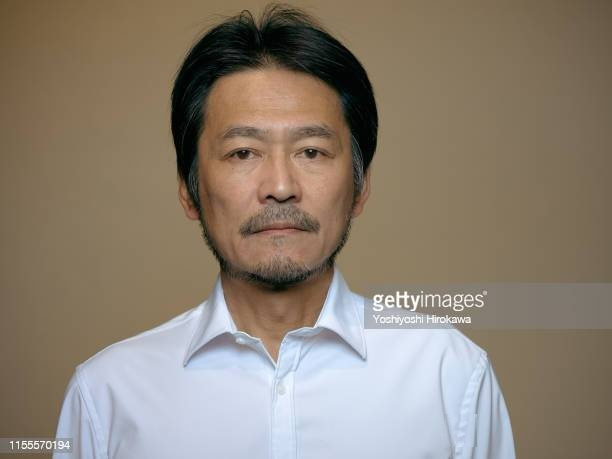
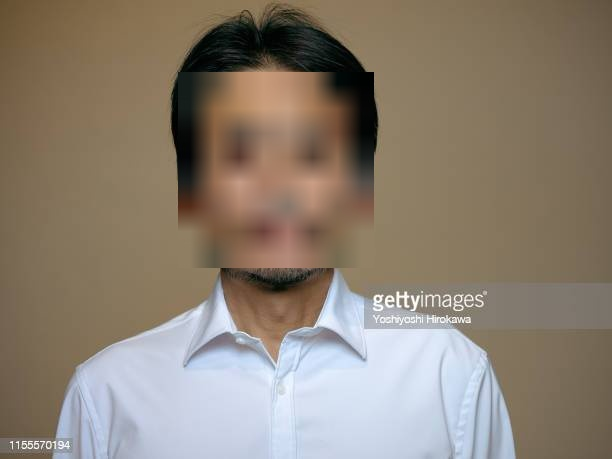
モザイク処理別の方法

Changed region(s): [[0.2794, 0.1525, 0.6209, 0.61]]

diff --git a/modules/mosaic.py b/modules/mosaic.py
@@ -1,45 +1,39 @@
-import numpy as np
 import cv2
 import os
-
-def pixelate(src, ratio):#モザイク処理
-    small = cv2.resize(src, None, fx=ratio, fy=ratio, interpolation=cv2.INTER_NEAREST)
-    return cv2.resize(small, src.shape[:2][::-1], interpolation=cv2.INTER_NEAREST)
-
-
-def pixelate_area(src, x, y, width, height, ratio=1.1):#指定領域でモザイク処理
-    dst = src.copy()
-    dst[y:y + height, x:x + width] = pixelate(dst[y:y + height, x:x + width], ratio)
-    return dst
 
 def proccess(filename: str):
 
     face_cascade_path = 'haarcascade_frontalface_default.xml'
     face_cascade = cv2.CascadeClassifier(face_cascade_path)
     
-    filepath = "/Users/k21094kk/src/github/2022AIT-OOP2-G08/issue_11/modules/face.jpg"
-    print("カレントパス", os.getcwd())
-    print("filepath が指す絶対パス", os.path.abspath(filepath))
-    print("ファイルが存在するかどうか", os.path.isfile(filepath))
+    #filepath = "/Users/k21094kk/src/github/2022AIT-OOP2-G08/issue_11/modules/face.jpg"
+    #print("カレントパス", os.getcwd())
+    #print("filepath が指す絶対パス", os.path.abspath(filepath))
+    #print("ファイルが存在するかどうか", os.path.isfile(filepath))
     
     src_img : cv2.Mat = cv2.imread(filename)
-    
+
     gray_img = cv2.cvtColor(src_img, cv2.COLOR_BGR2GRAY)
     
-    faces = face_cascade.detectMultiScale(gray_img)
+    faces = face_cascade.detectMultiScale(gray_img, minSize=(150,150))
 
-    for x,y,w,h in faces:
-        dst_face = pixelate_area(src_img, x, y, w, h)
-        #dst_img = cv2.rectangle(src_img, (x,y),(x+w,y+h),(255,0,0),2)
-
-
-    if len(faces) > 0:
-        cv2.imwrite('mosaic_face.jpg', dst_face)
-    else:
-        cv2.imwrite('mosaic_face.jpg')
+    print(faces)
+    x=faces[0][0]
+    y=faces[0][1]
+    w=faces[0][2]
+    h=faces[0][3]
     
+    print("顔の座標(x,y,w,h):", x, y, w, h)
+    
+    #モザイク処理
+    face= src_img[y:y+h, x:x+w]
+    reduc = cv2.resize(face, (8,8))
+    mosaic = cv2.resize(reduc,(w,h))
+    src_img[y:y+h, x:x+w]=mosaic
 
+    cv2.imwrite('mosaic_face.jpg', src_img)
+    
 if __name__=='__main__':
-    input_file = 'face.jpg'
+    input_file = ''
     proccess(input_file)
 
